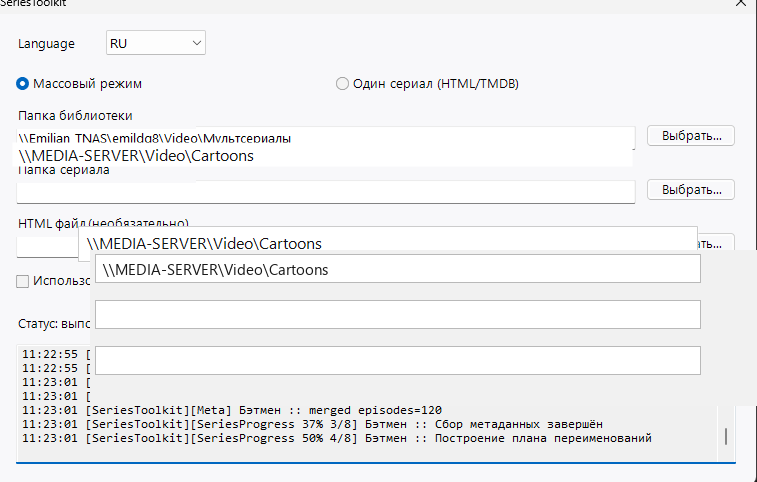
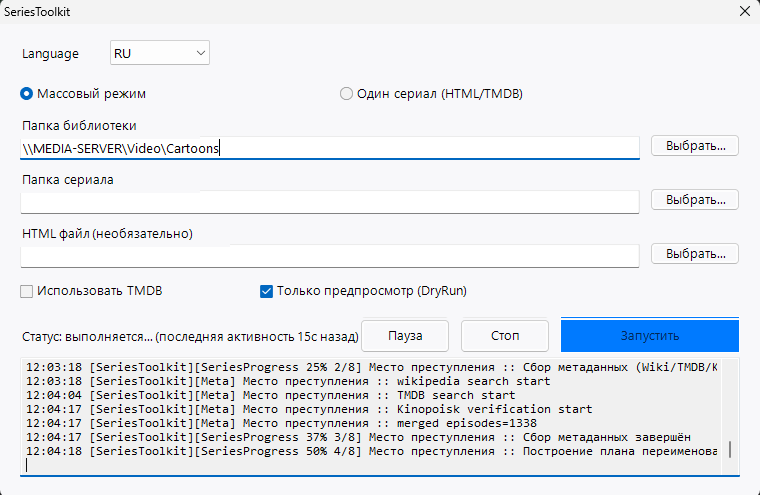
Auto sync SeriesToolkit v0.1.8

diff --git a/README.md b/README.md
@@ -90,15 +90,18 @@ powershell -NoProfile -ExecutionPolicy Bypass -File .\Start-SeriesToolkitGui.ps1
 Во время работы GUI теперь показывает:
 - общий прогресс библиотеки: `LibraryProgress % (i/N)`;
 - прогресс текущего сериала: `SeriesProgress % (этап/всего)`;
+- метрики времени: **время старта**, **сколько прошло**, **ETA (оценка завершения)**;
+- отдельную визуальную общую шкалу процента выполнения библиотеки;
 - «последняя активность Nс назад» (если долго нет новых строк — видно, что происходит тяжёлый этап);
-- кнопки **Пауза / Продолжить** и **Стоп** без закрытия окна.
+- кнопки **Пауза / Продолжить**, **Пропуск** (текущий сериал) и **Стоп** без закрытия окна;
+- при нажатии **Стоп** — корректный финальный статус «прервано пользователем» с краткой статистикой выполнения.
 
 Служебные GUI-логи:
 - `LOGS/gui-session-*.log` — события GUI (старт, кнопки, причины закрытия, ошибки);
 - `LOGS/gui-progress-*.log` — поток прогресса от движка.
 
 Для упаковки в один файл: `.\Build-SeriesToolkitExe.ps1` → `SeriesToolkit.GUI.exe`.  
-У EXE используется иконка `assets/SeriesToolkit.icon.ico`; при сборке старый `SeriesToolkit.GUI.exe` автоматически ротируется в `.bak`.
+У EXE и у окна во время выполнения используется иконка `assets/SeriesToolkit.icon.ico`; при сборке старый `SeriesToolkit.GUI.exe` автоматически ротируется в `.bak`.
 
 **EXE пересобирается автоматически**, когда меняется **`SeriesToolkit.ps1`** и срабатывает инкремент версии (см. `Bump-Version.ps1`). Отключить пересборку: `-SkipAutoBuildExe` у launcher.
 

diff --git a/CHANGELOG.md b/CHANGELOG.md
@@ -1,5 +1,12 @@
 # CHANGELOG
 
+## 0.1.8 - 2026-04-30 12:20:00 +03:00
+- GUI-метрики: добавлены явные поля `Старт`, `Прошло`, `ETA` и общая шкала прогресса по библиотеке.
+- GUI-управление: добавлена кнопка `Пропуск` текущего сериала (без остановки всего прогона), поддержка сигнала в `SeriesToolkit.Engine.ps1`.
+- Stop-логика: при ручной остановке выводится статус «прервано пользователем» с итогом `выполнено/осталось`, вместо общей ошибки.
+- Окно GUI: включены стандартные кнопки окна (`свернуть/развернуть`) и явная установка иконки формы из `assets/SeriesToolkit.icon.ico`.
+- Документация: обновлены актуальные скриншоты GUI (`docs/images/01-gui-main.png`, `docs/images/02-dryrun-summary.png`) с нейтральным путём.
+
 ## 0.1.7 - 2026-04-30 11:30:00 +03:00
 - GUI-стабильность: убраны падения/зависания при чтении прогресса; переход на tail-чтение `gui-progress-*.log` вместо нестабильных pipe-callback в EXE.
 - GUI-прогресс: добавлены `LibraryProgress` и `SeriesProgress` (проценты и этапы), а также статус «последняя активность Nс назад».
